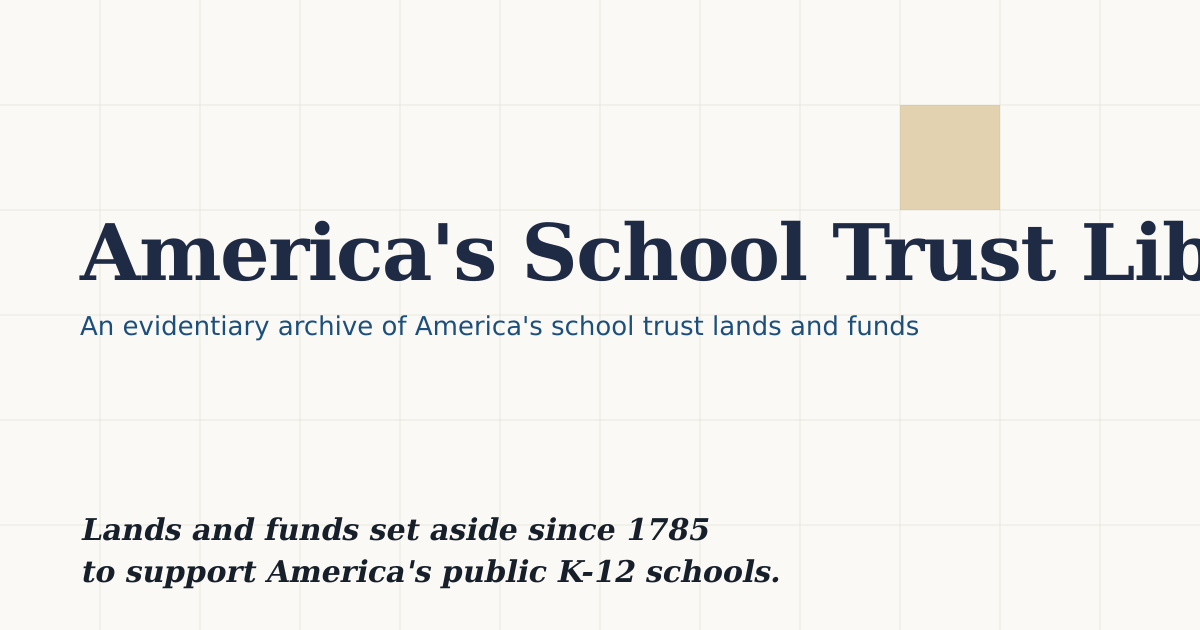
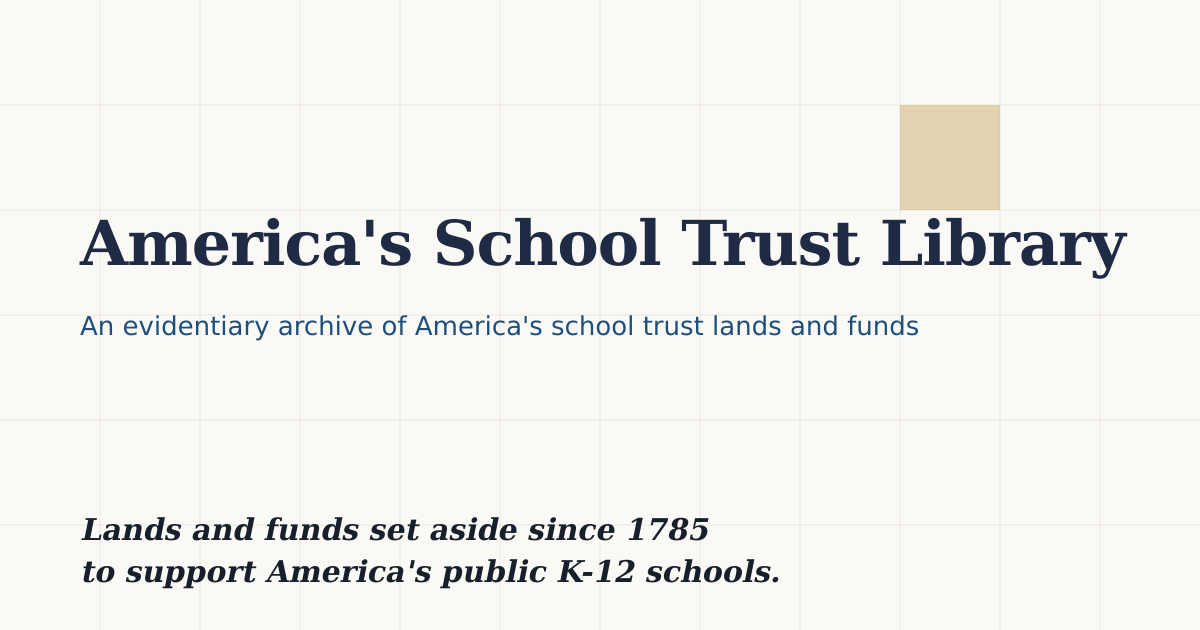
Session 1 patch: fix two CTA 404s, OG title overflow, oversized images, atlas strip
- Reading Room Sacred Compact CTA now points at /reading/sacred-compact-prologue/ (existing essay)
- /reading/schools-of-the-republic/ stub explains Part I + Part II structure and links into the Sacred Compact essays + Reading Room
- OG SVG title shrunk 78pt → 62pt (letter-spacing -1.5 → -1, y 280 → 265); fits the 1200px canvas under DejaVu Serif fallback
- scripts/resize-images.mjs walks public/img/, resizes anything over 500 KB to max 1600px wide. Magna Carta dropped from ~6 MB to 497 KB; schoolhouse from 1.2 MB to 369 KB
- Atlas page no longer renders the parchment header strip; matching .atlas-header-strip CSS + Tailwind safelist entry removed

Changed region(s): [[0.0617, 0.3317, 1.0, 0.4524]]

diff --git a/src/styles/global.css b/src/styles/global.css
@@ -357,19 +357,6 @@
     margin-top: 0.5rem;
   }
 
-  /* Atlas Room — parchment-map header strip */
-  .atlas-header-strip {
-    margin-bottom: 1.25rem;
-    overflow: hidden;
-  }
-  .atlas-header-strip img {
-    display: block;
-    width: 100%;
-    height: auto;
-    opacity: 0.55;
-    filter: sepia(0.25);
-  }
-
   /* Homepage launch announcement (Rebuild Session 1, Section C.2) */
   .launch-announcement {
     background: var(--linen-card);